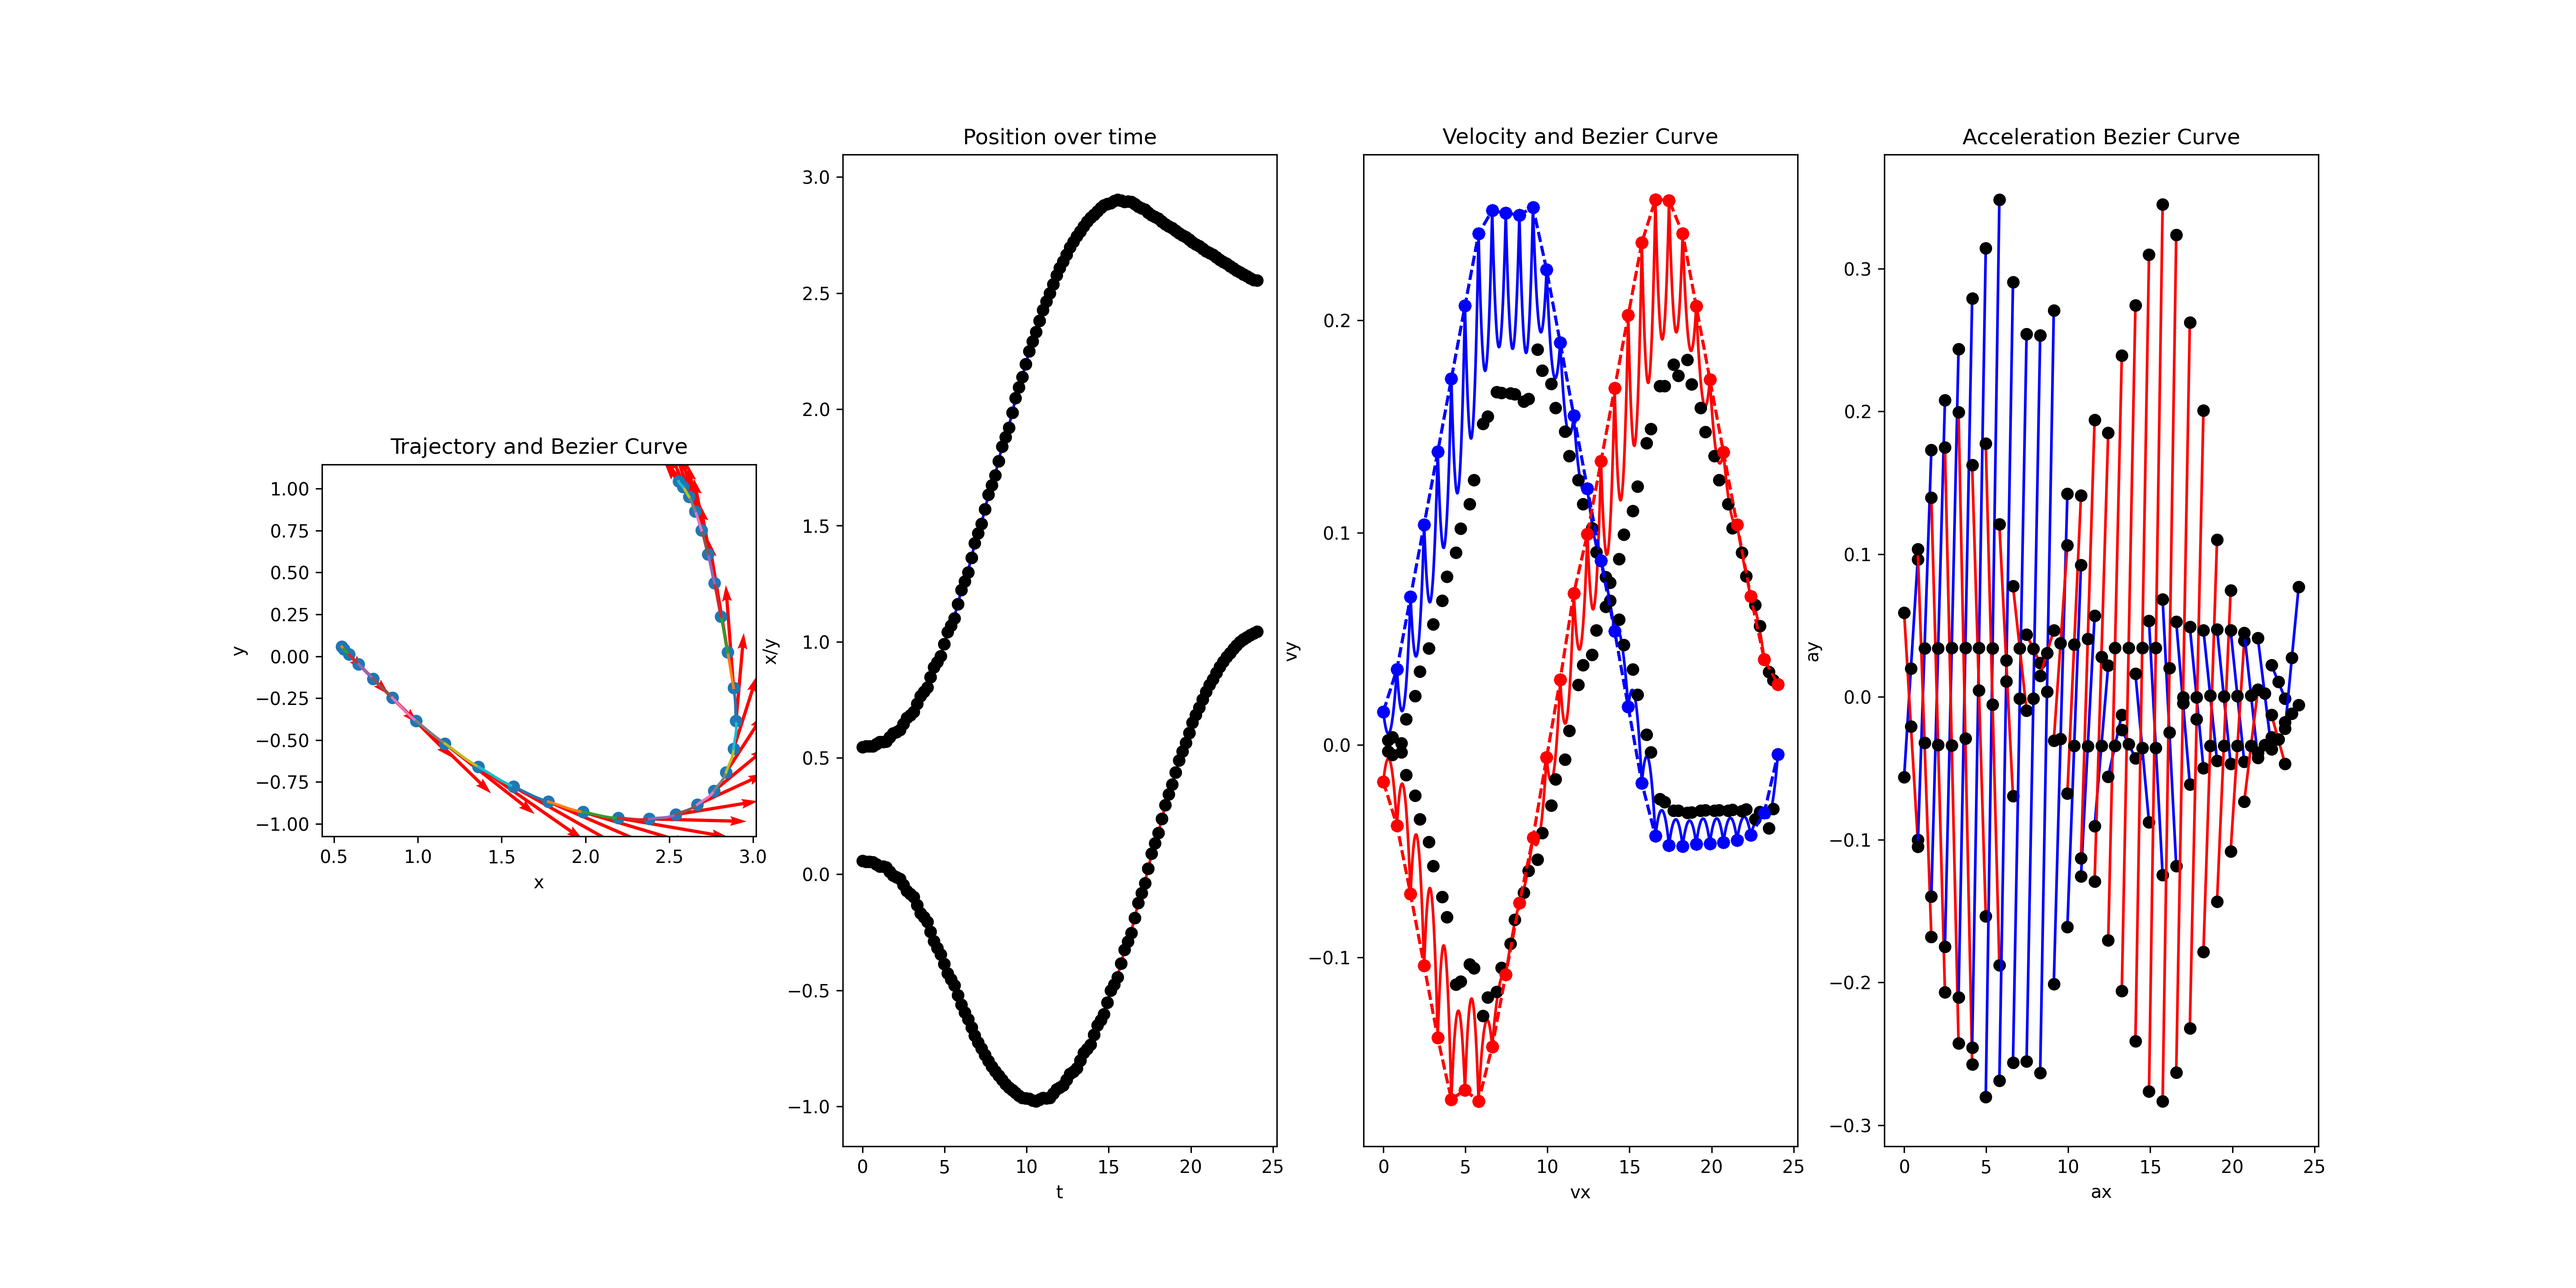
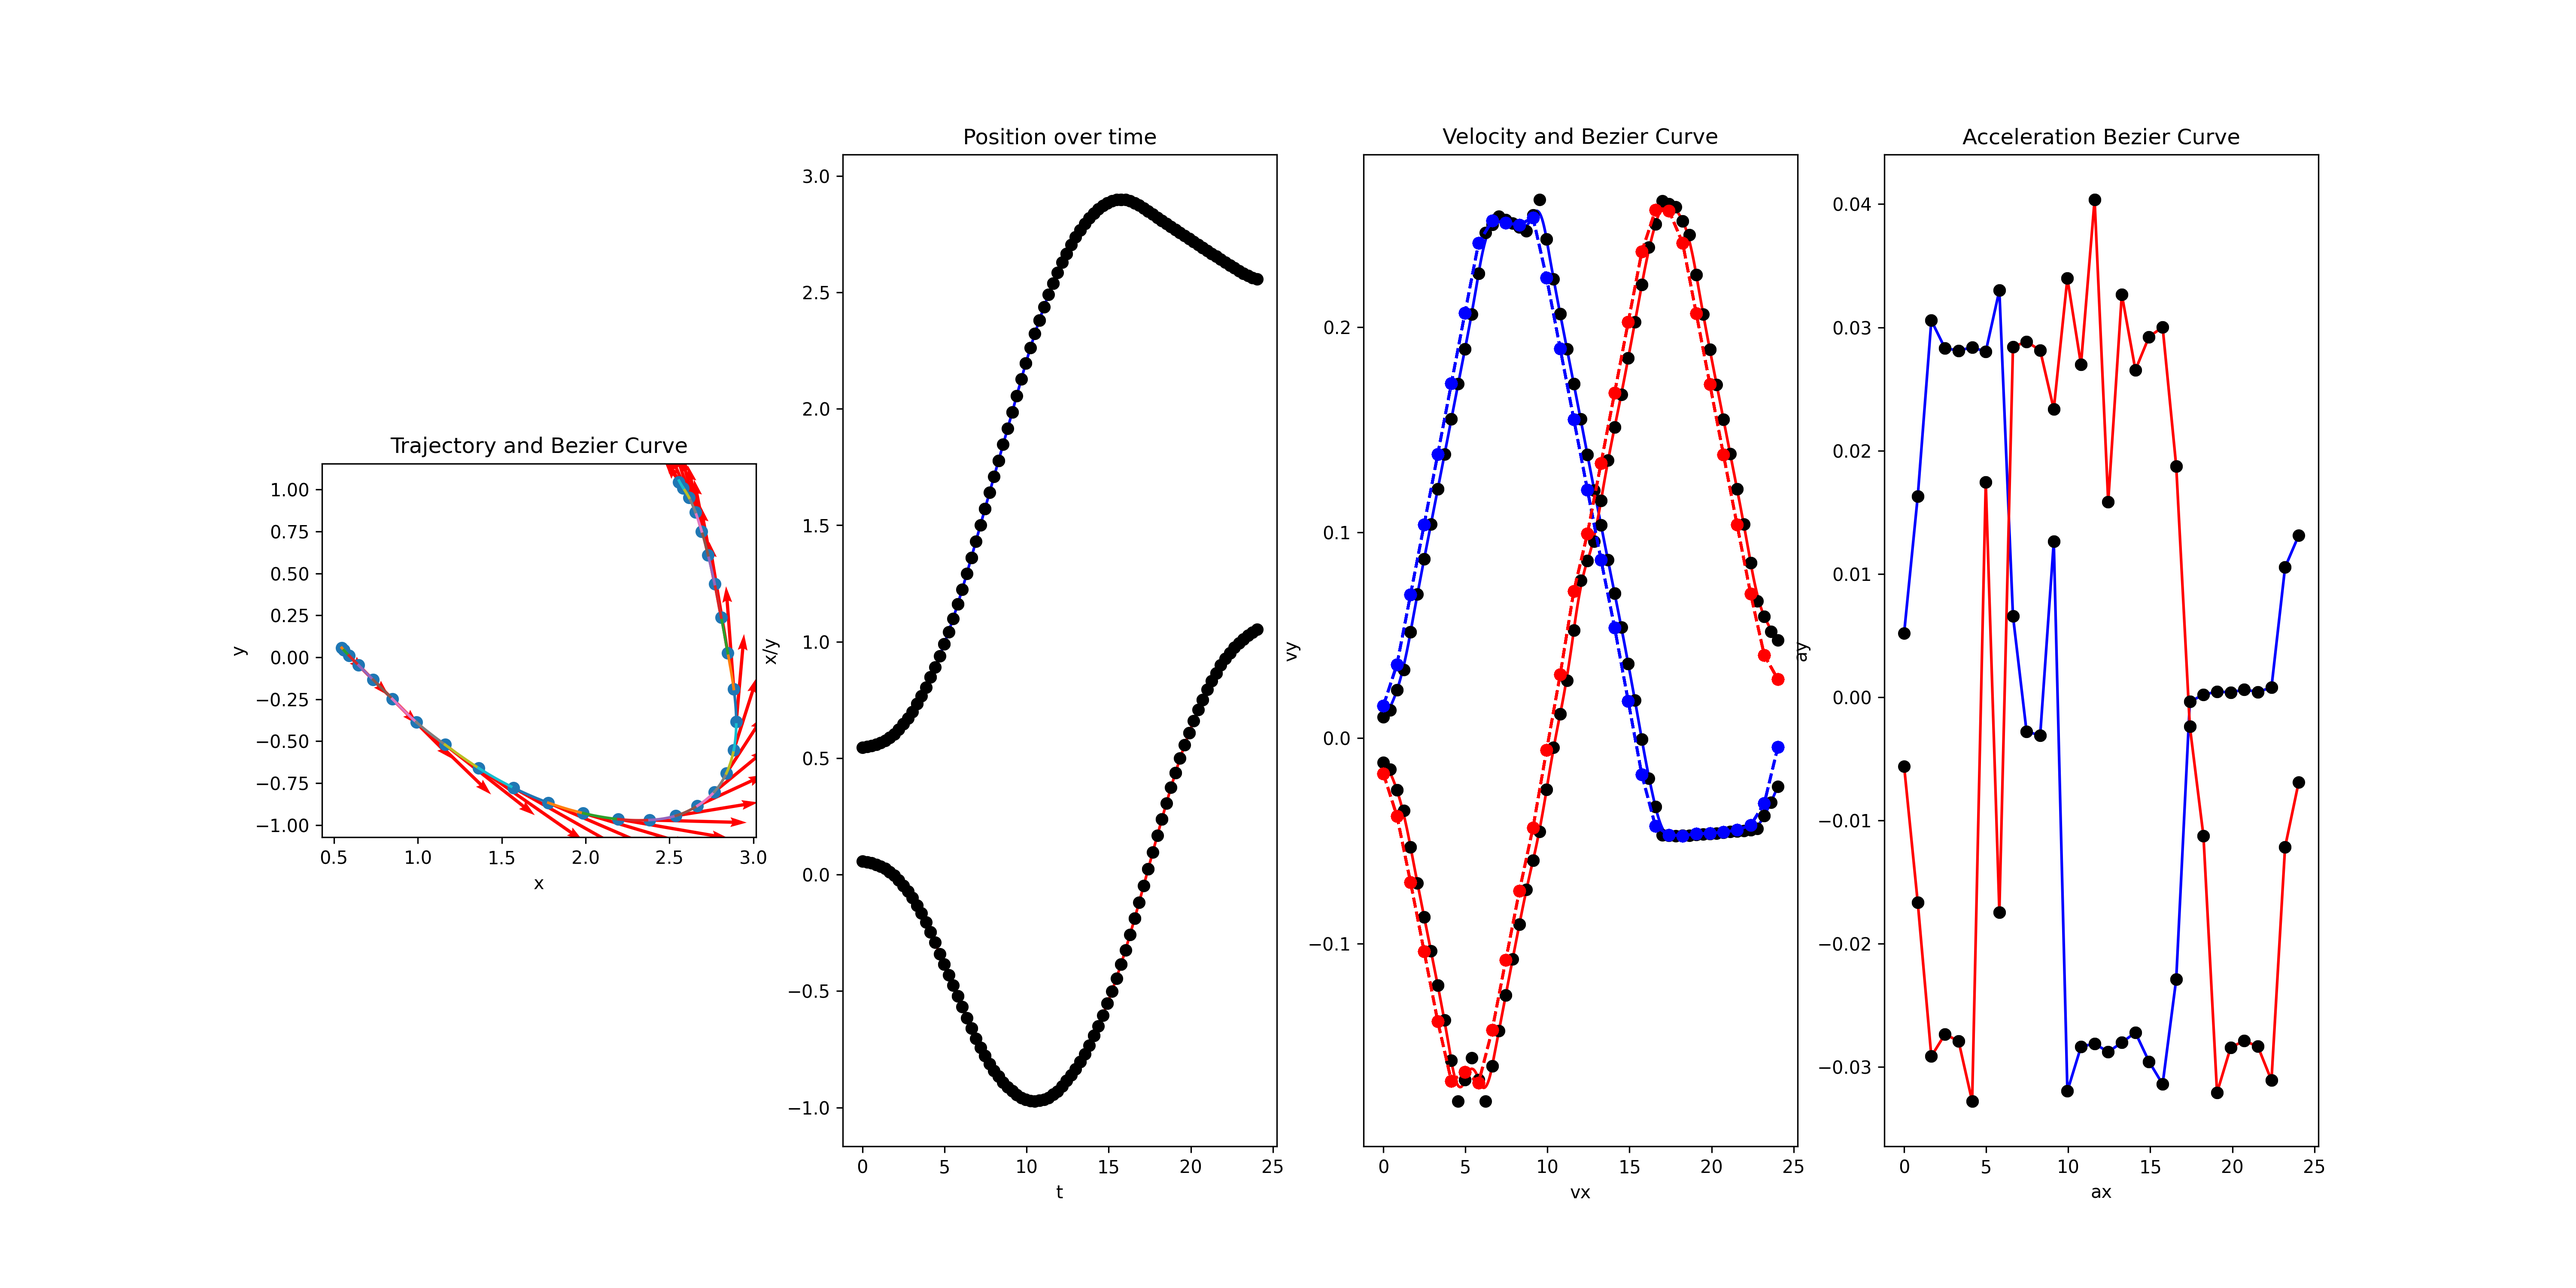
fixed timescaling of bezier interpolation and added some slack to constraints

Changed region(s): [[0.5298, 0.155, 0.9038, 0.868], [0.187, 0.589, 0.2805, 0.651], [0.1558, 0.341, 0.2805, 0.372]]

diff --git a/stl_mapping/Planning/bezier_fitting.py b/stl_mapping/Planning/bezier_fitting.py
@@ -21,7 +21,7 @@ def bezier_fitting(data, model_name):
     n = 3
 
     # create d-th order Bezier curve from variables
-    d = 4
+    d = 3
 
     constraints = []
     cost = 0
@@ -38,26 +38,46 @@ def bezier_fitting(data, model_name):
         for c in range(d-1):
             constraints += [ddr_vars[i][:,c] == (d-1)*(dr_vars[i][:,c+1] - dr_vars[i][:,c])]
 
+    # continuity constraints
+    for i in range(N-2):
+        constraints += [r_vars[i][:,-1] == r_vars[i+1][:,0]]
+        constraints += [dr_vars[i][:,-1] == dr_vars[i+1][:,0]]
+        constraints += [ddr_vars[i][:,-1] == ddr_vars[i+1][:,0]]
+
+    delta_r, delta_dr = cp.Variable(1), cp.Variable(1)
+    constraints += [delta_r >= 0, delta_dr >= 0]
+    add_slack = True
     # end-point position constraints
     for i in range(N-1):
-        constraints += [r_vars[i][:,0] == x[i,0:3]]
-        constraints += [r_vars[i][:,-1] == x[i+1,0:3]]
+        if add_slack:
+            constraints += [r_vars[i][:,0] <= x[i,0:3] + delta_r]
+            constraints += [r_vars[i][:,0] >= x[i,0:3] - delta_r]
+            constraints += [r_vars[i][:,-1] <= x[i+1,0:3] + delta_dr]
+            constraints += [r_vars[i][:,-1] >= x[i+1,0:3] - delta_dr]
+        else:
+            constraints += [r_vars[i][:,0] == x[i,0:3]]
+            constraints += [r_vars[i][:,-1] == x[i+1,0:3]]
 
     # end-point velocity constraints
     for i in range(N-1):
-        # the trajectories for the nonlinear models have the velocities in the body frame,
-        # so we need to convert this to the inertial frame for smooth interpolation of position
-        q = R.from_quat(x[i, 3:7],scalar_first=True).as_matrix()
-        constraints += [dr_vars[i][:,0] == x[i,7:10]]
-        q = R.from_quat(x[i+1, 3:7],scalar_first=True).as_matrix()
-        constraints += [dr_vars[i][:,-1] == x[i+1,7:10]]
+        if add_slack:
+            constraints += [dr_vars[i][:,0] <= x[i,7:10]*dt + delta_dr]
+            constraints += [dr_vars[i][:,0] >= x[i,7:10]*dt - delta_dr]
+            constraints += [dr_vars[i][:,-1] <= x[i+1,7:10]*dt + delta_dr]
+            constraints += [dr_vars[i][:,-1] >= x[i+1,7:10]*dt - delta_dr]
+        else:
+            constraints += [dr_vars[i][:,0] == dt*x[i,7:10]]
+            constraints += [dr_vars[i][:,-1] == dt*x[i+1,7:10]]
 
     # cost
     for i in range(N-1):
         cost += cp.sum_squares(ddr_vars[i])
+    if add_slack:
+        cost += 1000*delta_r + 1000*delta_dr
 
     prob = cp.Problem(cp.Minimize(cost), constraints)
-    prob.solve(solver=cp.CVXOPT)
+    # prob.solve(solver=cp.CVXOPT)
+    prob.solve(solver=cp.OSQP)
 
     # Gather the results and save
     r_sols = [r_vars[i].value for i in range(N-1)]
@@ -107,12 +127,12 @@ def bezier_fitting(data, model_name):
 
     for i in range(N-1):
         i_time = np.linspace(i*dt, (i+1)*dt, r_vals[i].shape[1])
-        axs[2].plot(i_time, dr_vals[i][0, :], 'b', label=f'Bezier {i}')
-        axs[2].plot(i_time, dr_vals[i][1, :], 'r')
+        axs[2].plot(i_time, dr_vals[i][0, :]/dt, 'b', label=f'Bezier {i}')
+        axs[2].plot(i_time, dr_vals[i][1, :]/dt, 'r')
         # plot the control points
         i_time = np.linspace(i*dt, (i+1)*dt, dr_vars[i].shape[1])
-        axs[2].plot(i_time, dr_vars[i].value[0, :], 'ko')
-        axs[2].plot(i_time, dr_vars[i].value[1, :], 'ko')
+        axs[2].plot(i_time, dr_vars[i].value[0, :]/dt, 'ko')
+        axs[2].plot(i_time, dr_vars[i].value[1, :]/dt, 'ko')
         # plot the reference trajectory
         axs[2].plot(times,x[:, 7], 'bo--', label='Reference vx')
         axs[2].plot(times,x[:, 8], 'ro--', label='Reference vy')
@@ -136,6 +156,6 @@ def bezier_fitting(data, model_name):
 
 
 if __name__ == "__main__":
-    model_name = 'atmos' # Change to 'atmos' or 'bluerov if needed
+    model_name = 'bluerov' # Change to 'atmos' or 'bluerov if needed
     data = np.load(f'stl_mapping/Planning/solutions/{model_name}_nonlinear_solution.npz')
     bezier_fitting(data, model_name)
